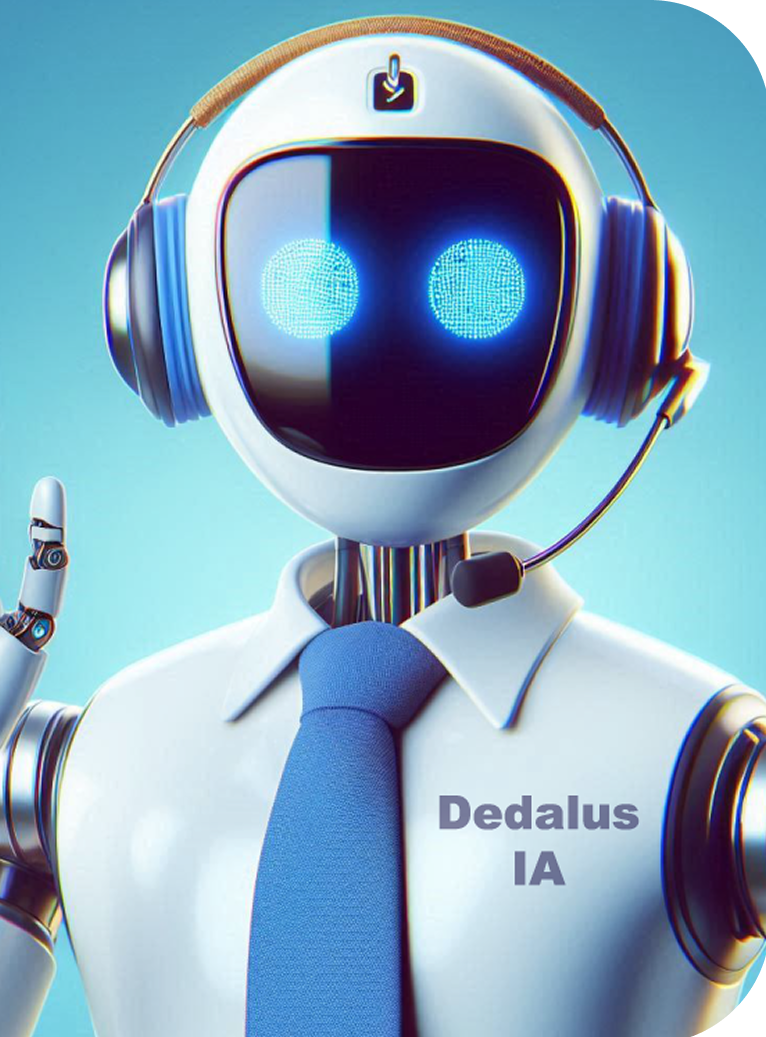
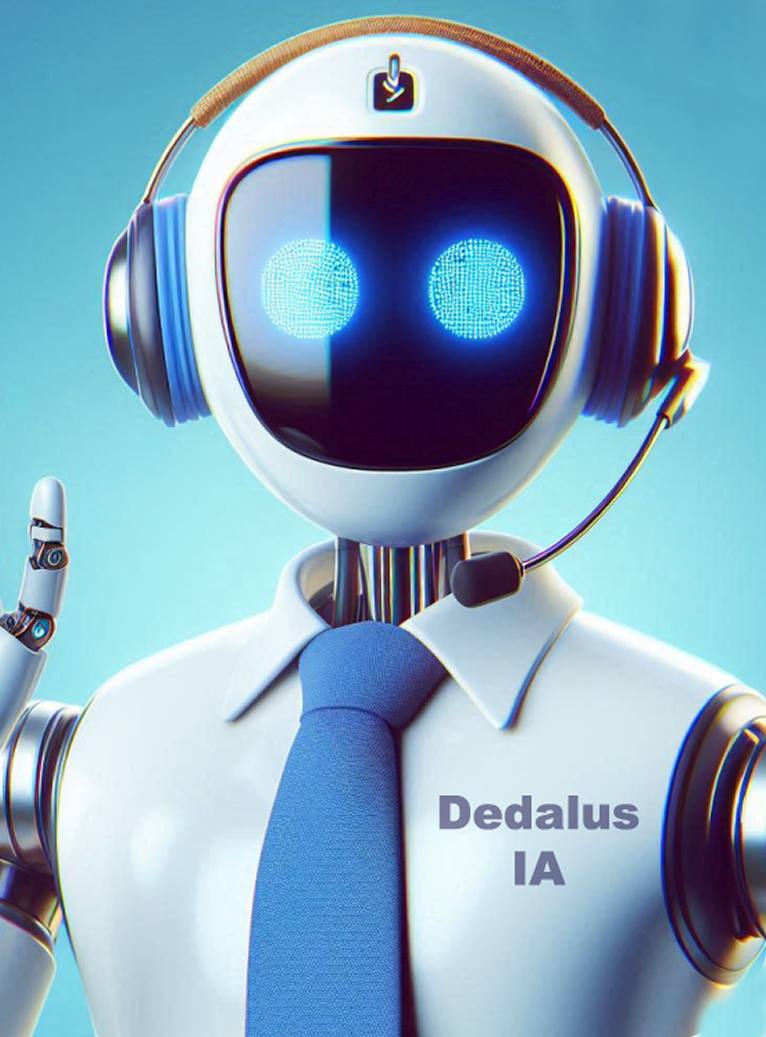
finalizacao primeiro panel

Changed region(s): [[0.9008, 0.9257, 1.0, 1.0], [0.8708, 0.0, 1.0, 0.0926]]

diff --git a/src/app/panels/first-panel/first-panel.component.html b/src/app/panels/first-panel/first-panel.component.html
@@ -1,18 +1,20 @@
 <div *ngIf="panelSequenceService.showFirstPanel$ | async" class="fixed inset-0 bg-black bg-opacity-50 flex justify-center items-center z-50">
-    <div class="bg-white p-8 rounded-3xl relative max-w-4xl w-11/12 grid grid-cols-2 gap-8">
+    <div class="bg-white rounded-3xl relative w-3/5 h-4/5 grid grid-cols-10">
         <button class="absolute top-4 right-4 text-gray-600 hover:text-gray-900 text-xl" (click)="panelSequenceService.closeAllPanels()">X</button>
         
         <!--Primeira Coluna-->
-        <div class="col-span-1 pr-4 border-r border-gray-300">
-            <div class="flex items-center justify-center mb-4">
+        <div class="col-span-6 p-4 border-r border-gray-300 max-h-full text-center overflow-y-auto">
+            <div class="flex flex-col items-center justify-center mb-4">
                 <img src="../../../assets/icone_robo.png" class="w-8 h-8 mr-2">
-                <h3 class="text-xl font-semibold text-gray-800">Bem-vindo à Dedalus Business Insights!</h3>
+                <h3 class="text-base text-center font-semibold text-gray-800 text-font-poppins">Bem-vindo à Dedalus Business Insights!</h3>
             </div>
-            <p class="text-gray-600 mb-2">Estou aqui para ajudá-lo a explorar soluções que podem alavancar o seu negócio.</p>
-            <p class="text-gray-600 mb-2">Meu objetivo é entender suas emoções e necessidades para oferecer soluções personalizadas que ajudem a impulsionar suas ideias.</p>
-            <p class="text-gray-600 mb-2">Para isso, peço que você permita o acesso à sua câmera. Dessa forma, posso captar suas expressões, ajustando as respostas de acordo com suas emoções.</p>
-            <p class="text-gray-600 mb-2">Isso tornará nossa conversa mais imersiva e eficaz!</p>
-            <p class="text-gray-600 mb-6">Vamos começar?</p>
+            <div class="px-4">
+                <p class="text-gray-600 mb-2 text-center text-sm">Estou aqui para ajudá-lo a explorar soluções que podem alavancar o seu negócio.</p>
+                <p class="text-gray-600 mb-2 text-center text-sm">Meu objetivo é entender suas emoções e necessidades para oferecer soluções personalizadas que ajudem a impulsionar suas ideias.</p>
+                <p class="text-gray-600 mb-2 text-center text-sm">Para isso, peço que você permita o acesso à sua câmera. Dessa forma, posso captar suas expressões, ajustando as respostas de acordo com suas emoções.</p>
+                <p class="text-gray-600 mb-2 text-center text-sm">Isso tornará nossa conversa mais imersiva e eficaz!</p>
+                <p class="text-gray-600 mb-6 text-center text-sm">Vamos começar?</p>
+            </div>
             <div class="flex justify-center gap-4 mb-8 text-2xl">
                 <span>🤔</span>
                 <span>😊</span>
@@ -22,13 +24,13 @@
                 <span>😮</span>
             </div>
 
-            <button class="bg-blue-500 hover:bg-blue-600 text-white font-semibold py-2 px-6 rounded-full shadow-md" (click)="panelSequenceService.openSecondPanel()">Vamos começar!</button>
+            <button class="bg-blue-500 hover:bg-blue-600 text-white font-semibold py-2 px-6 rounded-full shadow-md text-font-poppins justify-center" (click)="panelSequenceService.openSecondPanel()">Vamos começar!</button>
 
         </div>
 
         <!--Segunda Coluna-->
-        <div class="col-span-1 flex items-center justify-center">
-            <img src="../../../assets/robo-chatbot.png" alt="Imagem do robo" class="max-h-full max-w-full rounded-lg">
+        <div class="col-span-4 flex items-center max-h-full justify-center overflow-y-auto">
+            <img src="../../../assets/robo-chatbot.png" alt="Imagem do robo" class="h-full w-auto rounded-tr-3xl rounded-br-3xl">
         </div>
     </div>
 
